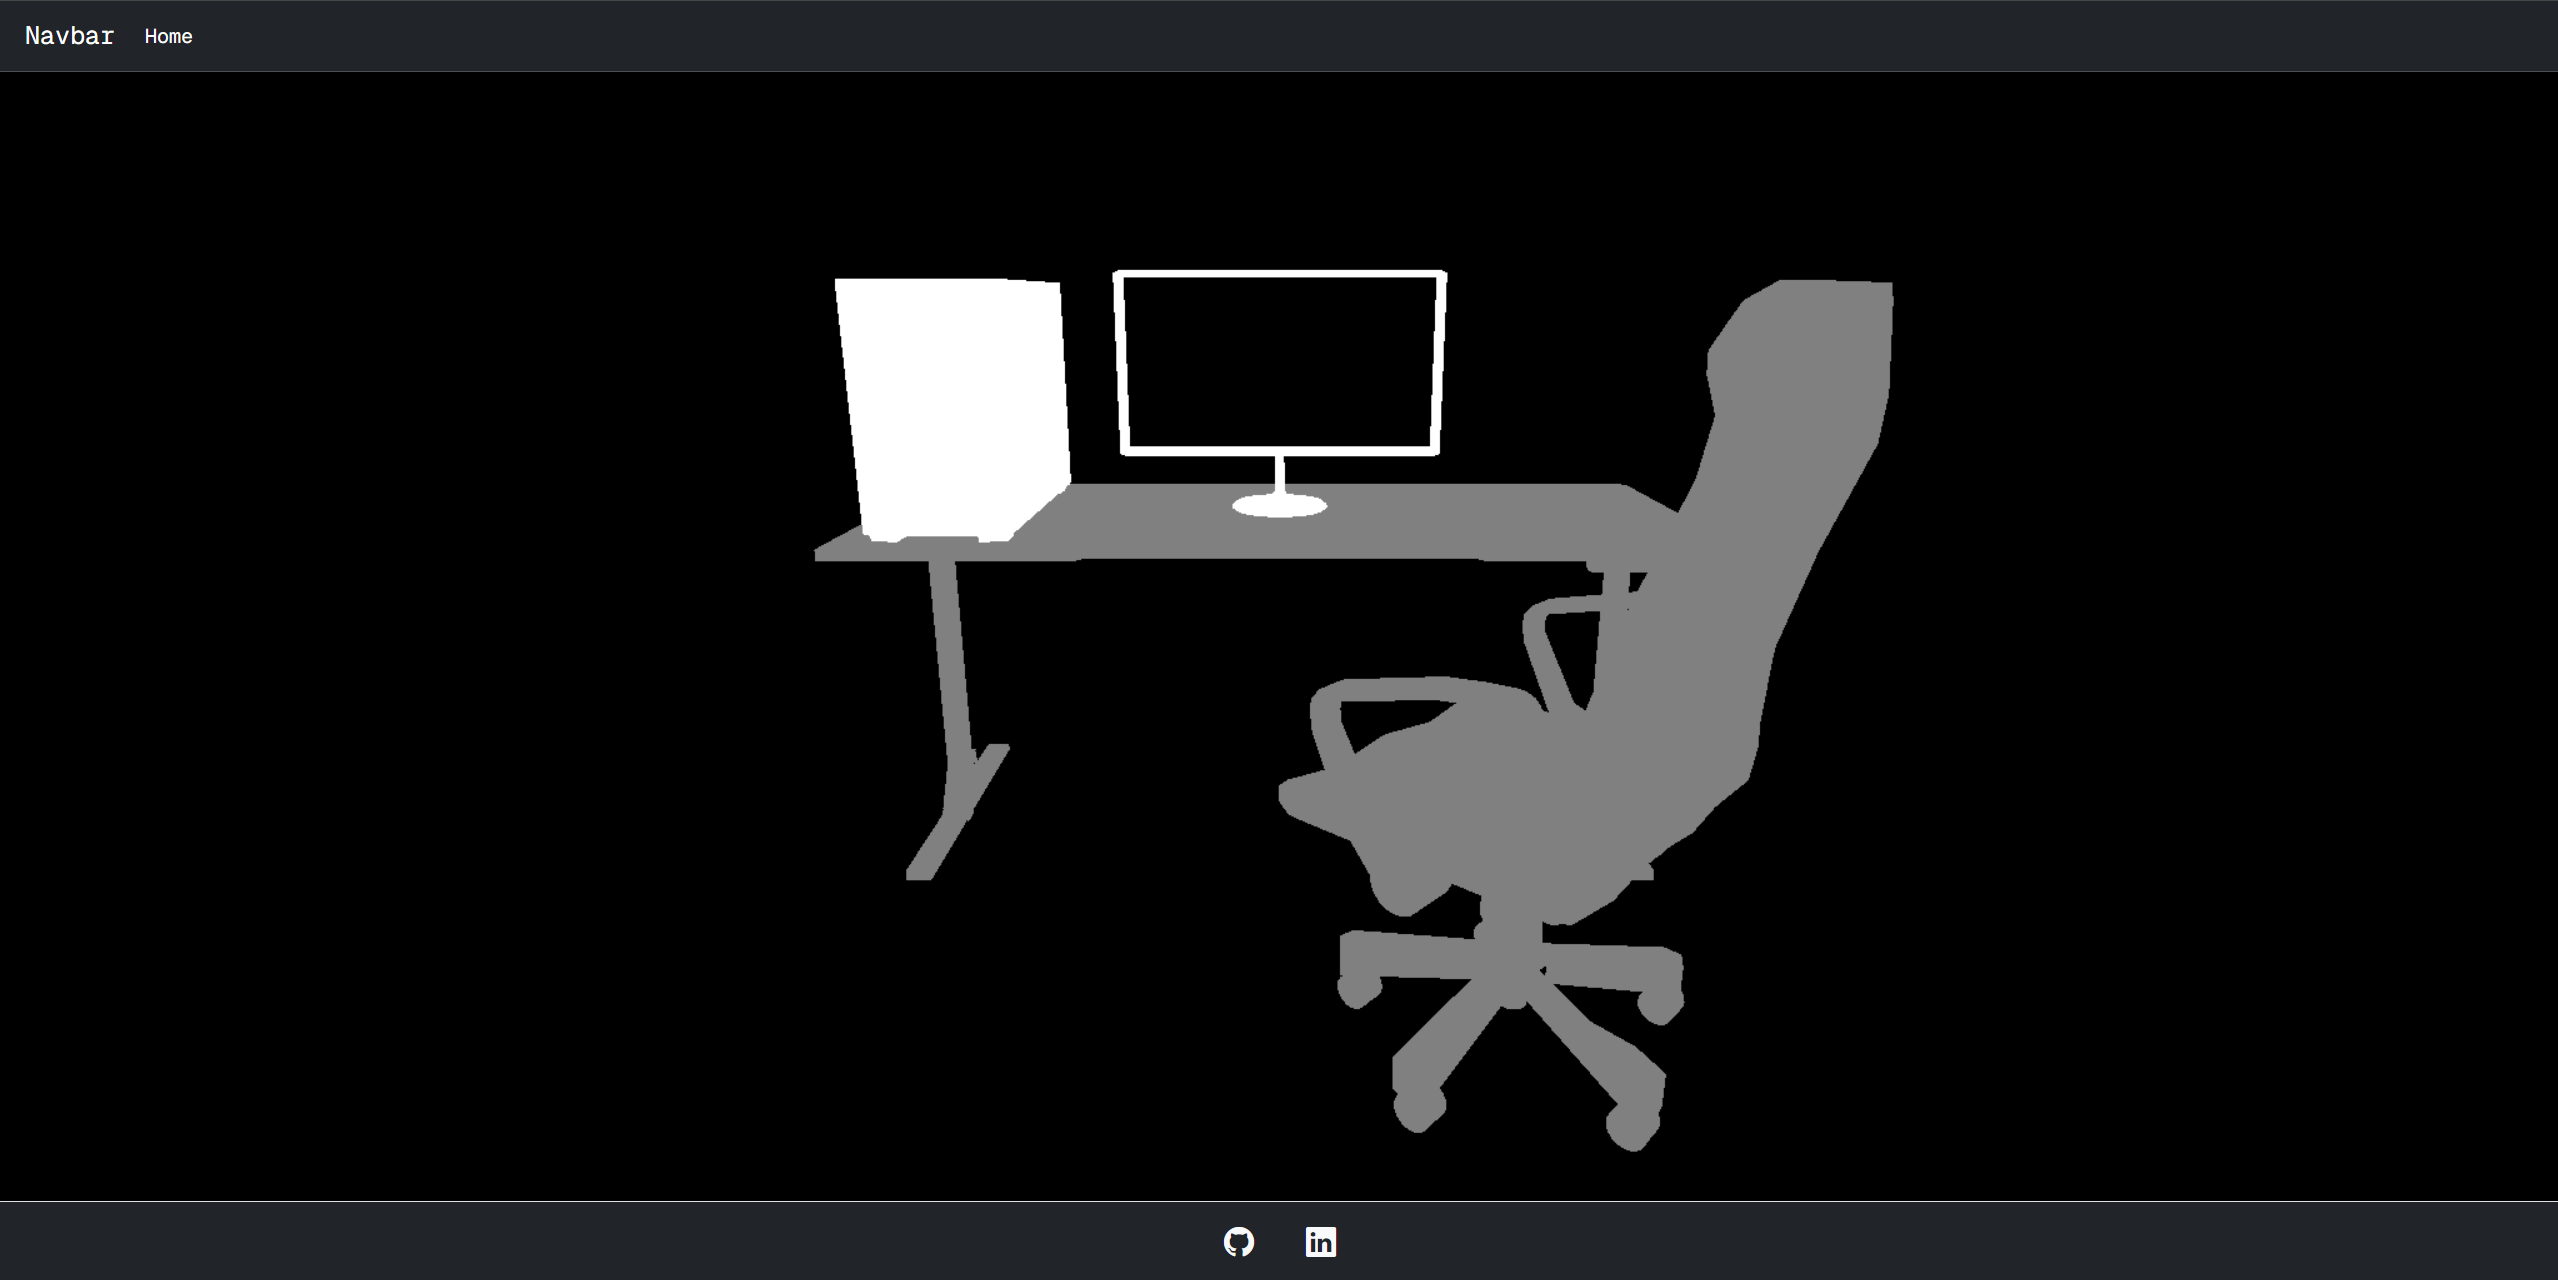
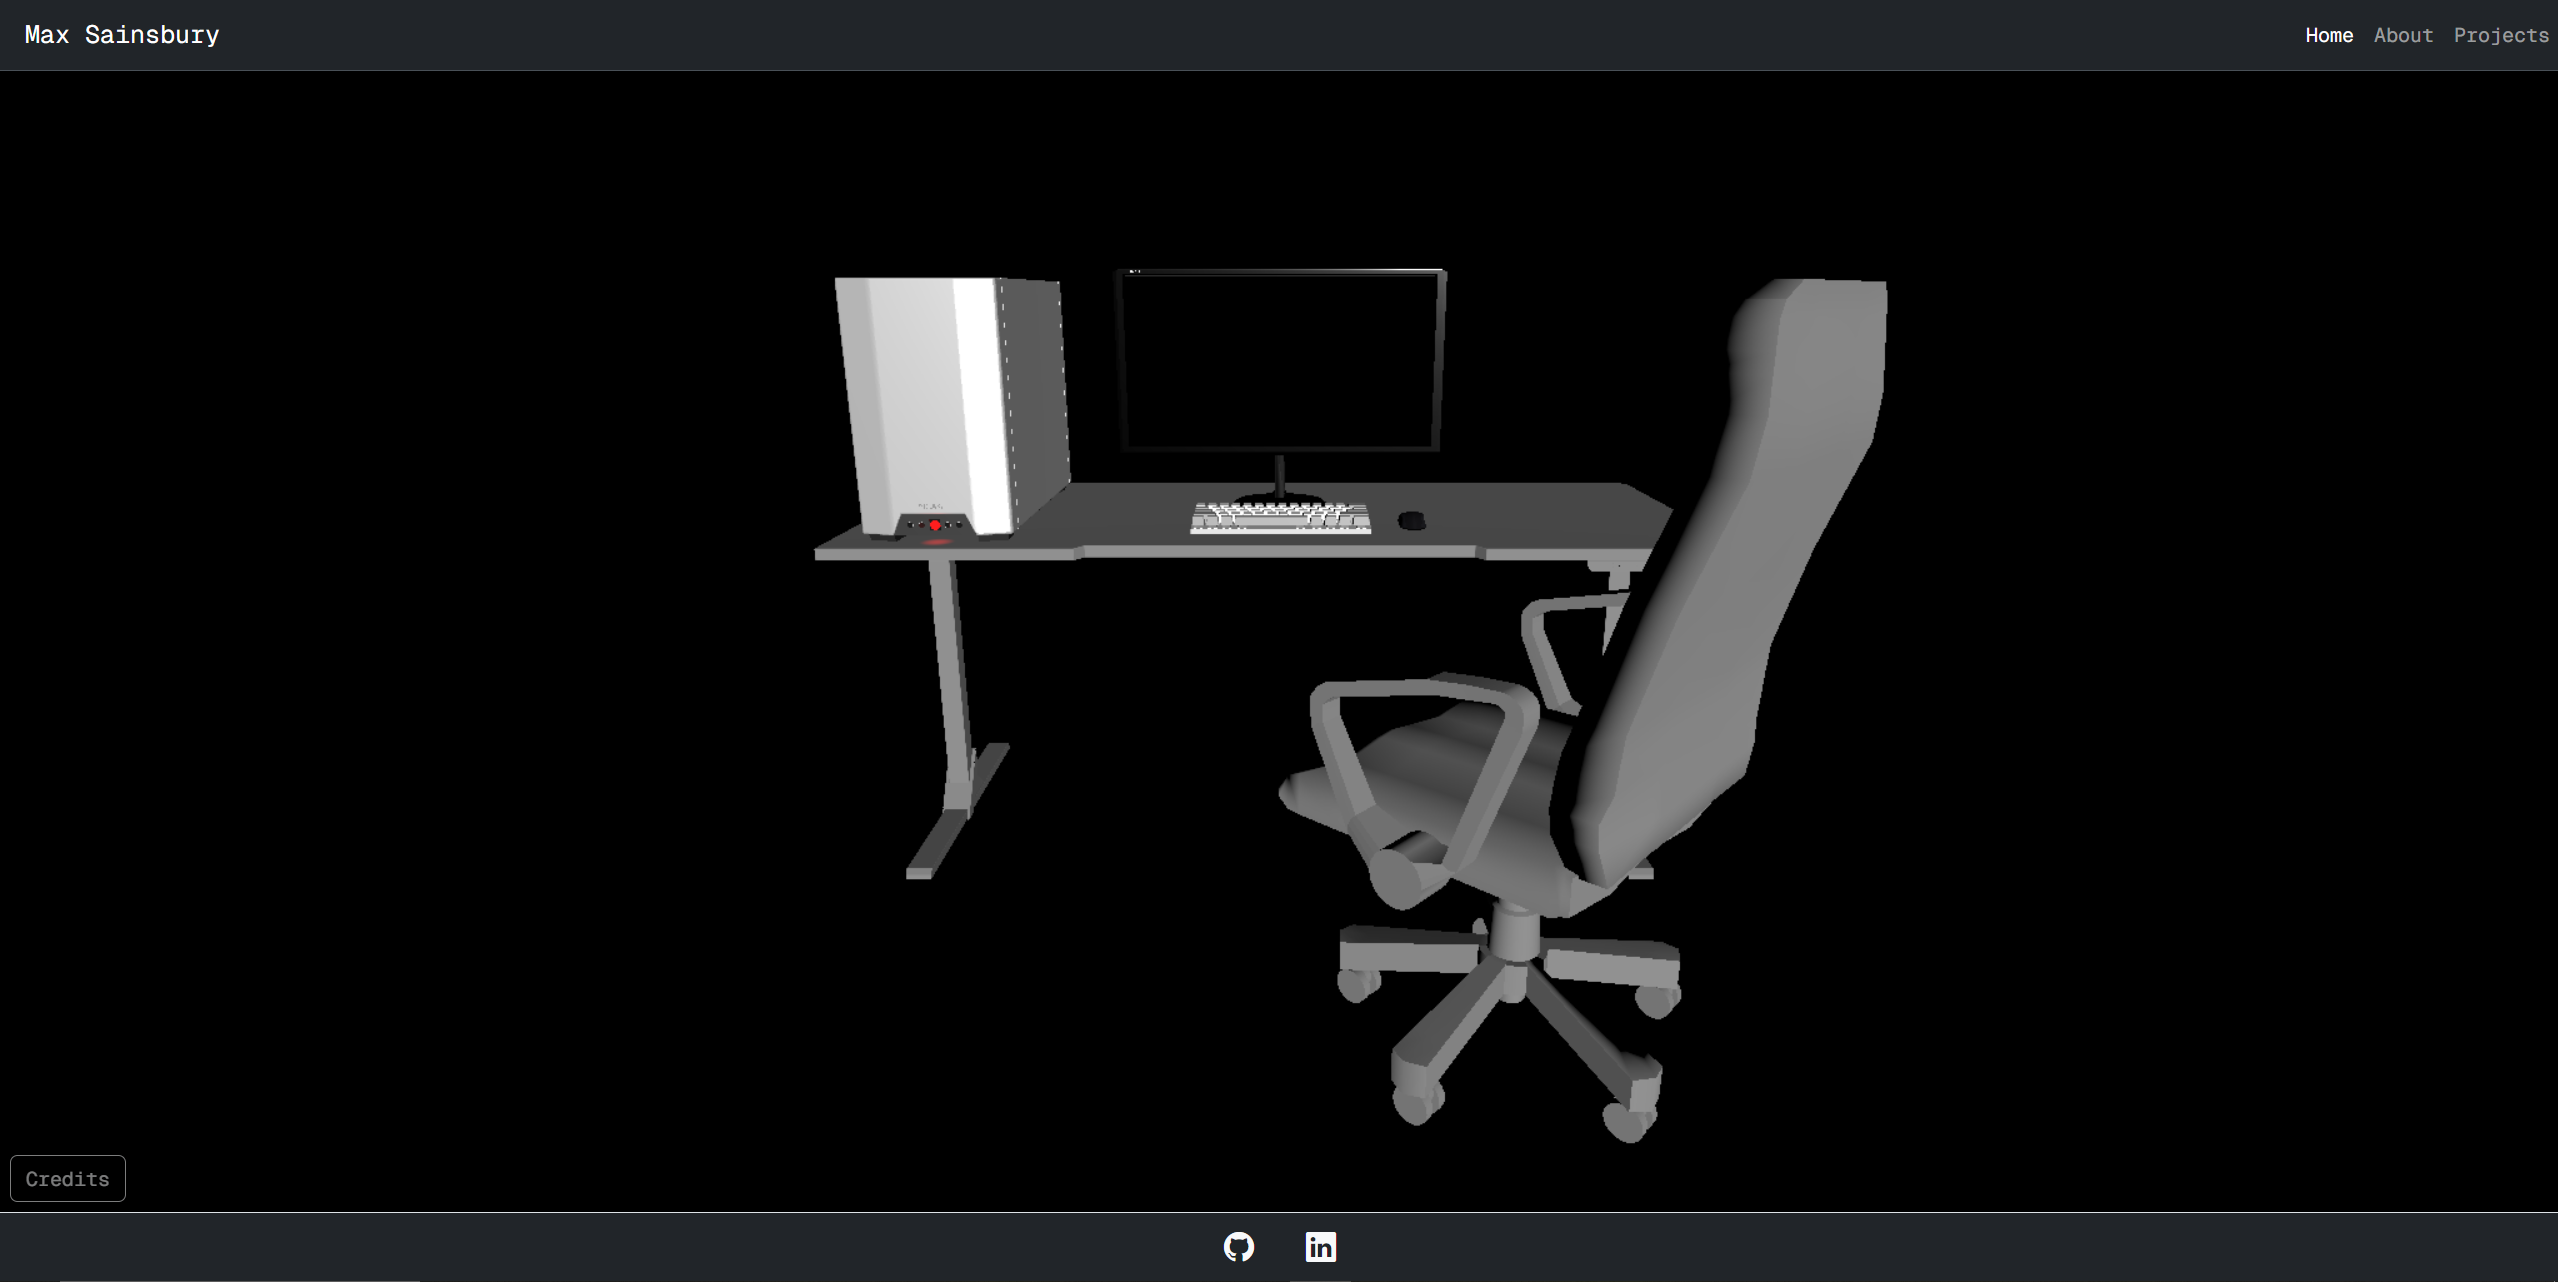
added an image to the computer screen

diff --git a/scripts/three.js b/scripts/three.js
@@ -15,6 +15,10 @@ let aspect = width / height;
 let fov;
 const white = new THREE.MeshStandardMaterial( { color: 0xffffff } );
 const gray = new THREE.MeshStandardMaterial( { color: 0x808080 } );
+const black = new THREE.MeshStandardMaterial({ color: 0x000000 } );
+const screenImage = new THREE.TextureLoader().load( "../public/images/full-screen-portfolio.png" );
+screenImage.repeat.set(1,1);
+const screenMaterial = new THREE.MeshBasicMaterial( { color: 0xeeeeee, map: screenImage } );
 const raycaster = new THREE.Raycaster();
 const pointer = new THREE.Vector2(-1,-1);
 const pointerChange = new THREE.Vector2(-1,-1);
@@ -74,9 +78,8 @@ renderer.setSize( width, height );
 container.append( renderer.domElement );
 
 const geometry = new THREE.PlaneGeometry( 0.67, 0.36 );
-const material = new THREE.MeshBasicMaterial( {color: 0x000000, side: THREE.DoubleSide} );
-const screen = new THREE.Mesh( geometry, material );
-screen.position.set(0,1.06,0);
+const screen = new THREE.Mesh( geometry, black );
+screen.position.set(0,1.065,0);
 screen.name = 'screen';
 scene.add( screen );
 
@@ -276,8 +279,8 @@ const resizeContainer = () => {
 }
 
 export const zoomIn = () => {
-    const cameraZEnd = 0.25;
-    const cameraYEnd = 1.053;
+    const cameraZEnd = 0.281;
+    const cameraYEnd = 1.058;
     const rotationXEnd = 0;
     const chairXEnd = 0;
     const chairRotEnd = -0.85;
@@ -285,7 +288,7 @@ export const zoomIn = () => {
     if (!lock) {
         lock = true;
         if(powerButton.material === emissiveGreen) {
-            scene.remove(textMesh);
+            screen.material = black;
             screenLight.intensity = 0;
         }
         gsap.to(chairGroup.position, {x: chairXEnd, duration: animTime});
@@ -325,7 +328,7 @@ export const zoomOut = (override = 0) => {
                     gsap.to(camera.position, {z: cameraZStart, y: cameraYStart, duration: animTime});
                     gsap.to(camera.rotation, {x: rotationXStart, duration: animTime, onComplete: () => {
                         if(powerButton.material === emissiveGreen) {
-                            scene.add(textMesh);
+                            screen.material = screenMaterial;
                             screenLight.intensity = 2;
                         }
                         lock = false;
@@ -365,14 +368,14 @@ const changeButton = () => {
         powerLightRed.intensity = 0;
         powerLightGreen.intensity = 0.08;
         powerButton.material = emissiveGreen;
-        scene.add(textMesh);
+        screen.material = screenMaterial;
         screenLight.intensity = 2;
     }
     else {
         powerLightRed.intensity = 0.08;
         powerLightGreen.intensity = 0;
         powerButton.material = emissiveRed;
-        scene.remove(textMesh);
+        screen.material = black;
         screenLight.intensity = 0;
     }
 }
